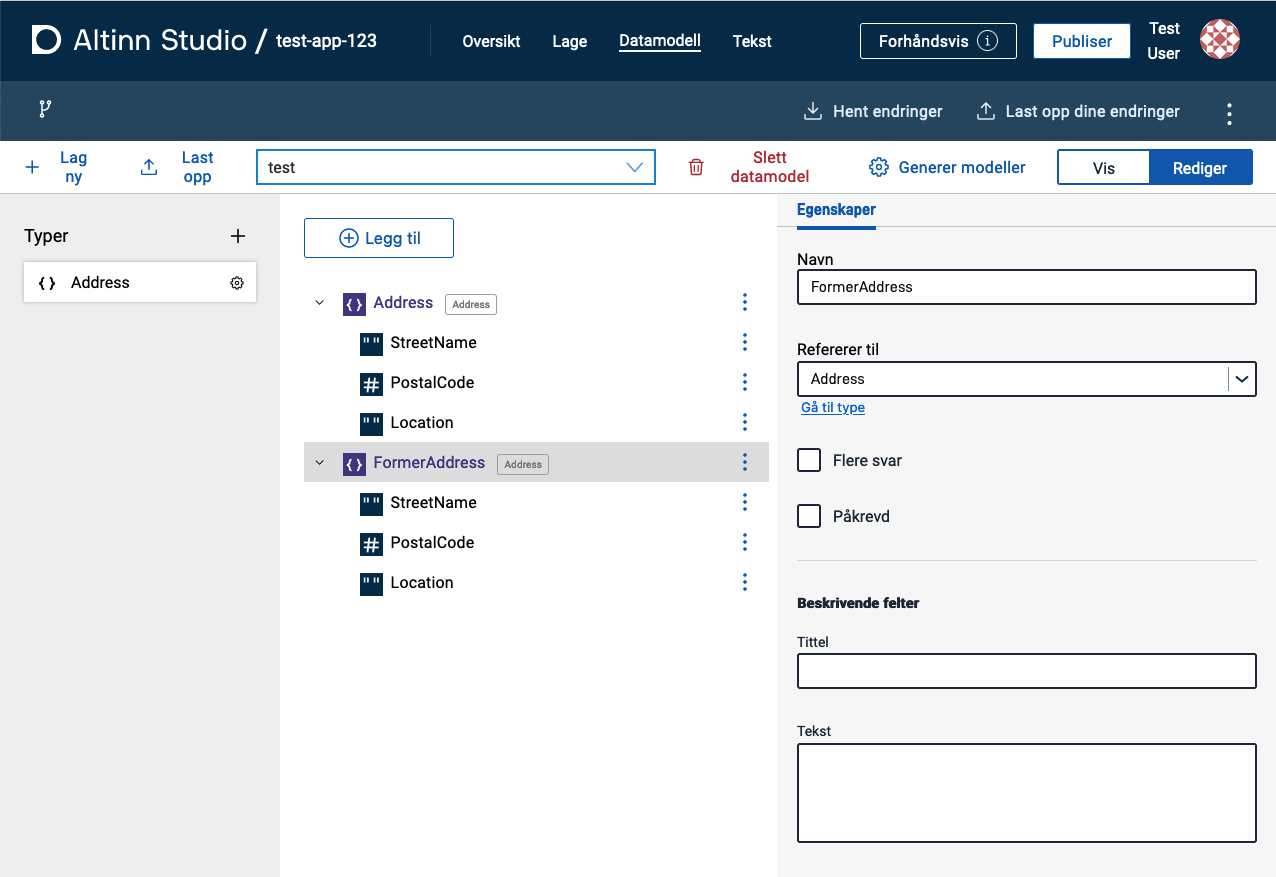
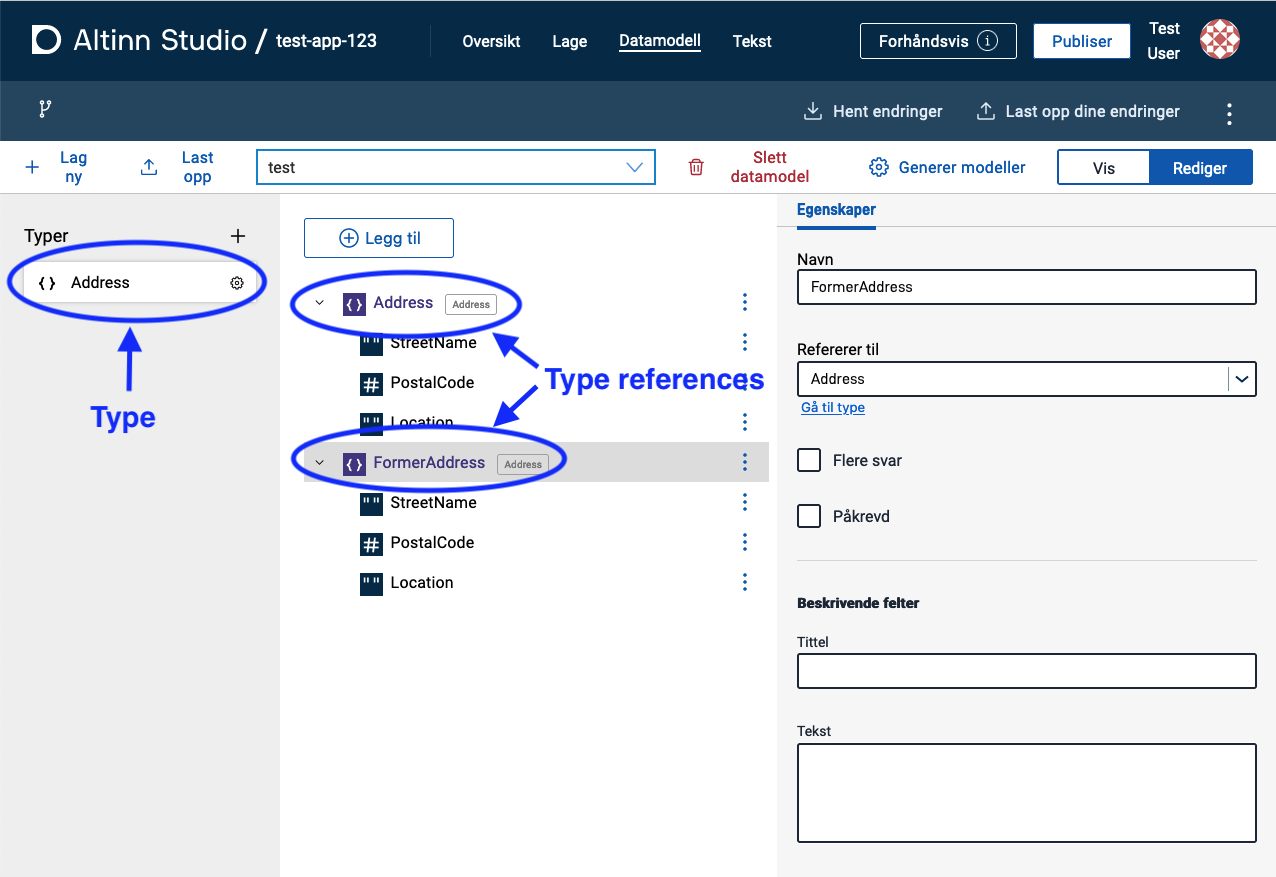
Updated data-models-tool index files (#966)
* Updated and added new screenshots

* Updated data-models-tool _index.en.md with new screenshots and clarifications

* Updated data-models-tool _index.nb with new screenshots and clarifications

---------

diff --git a/content/app/development/data/data-model/data-models-tool/_index.en.md b/content/app/development/data/data-model/data-models-tool/_index.en.md
@@ -50,7 +50,7 @@ A tree view of the data model can be opened to see a visual representation of th
 
 All models uploaded in the tool for an app or the organization's repository (`<org>-datamodels`) are available from the drop-down list in the toolbar.
 XSDs that exist in a repository but do not have any associated model files (JSONSchema) will also appear in the list. See the next
-section for more information.
+section for more information.s
 
 ### Specific to Organization-Level Data Modeling
 
@@ -70,13 +70,15 @@ To create a new data model from scratch:
    2. Enter the name of the data model in the field.
    3. Click _Opprett modell_ (_Create model_).
 
+![Create new data model](create-new-model.png "Create a new data model")
+
 The data model will be created with some example fields that you can work with or delete:
 
   - `property1` (text, required)
   - `property2` (text, required)
   - `property3` (text)
 
-![Create new data model](create-edit-model.gif "Create a new data model")
+![New data model](new-data-model.png "New data model")
 
 ## Editing a Data Model
 
@@ -87,32 +89,36 @@ Functionality for editing the data model with the Altinn Studio Data Model tool 
 Select a model from the dropdown list on the toolbar and click _Rediger_ (_edit_)
  in the top right corner of the model tool. A panel for editing the model will appear on the right side.
 
+![Edit data model](edit-model.png "Edit data model")
+
 {{% notice info %}}
 The JSONschema model is automatically saved as you work on it. To generate other model files such as XSD (and C# file for apps), you need to
-click the _Generate Models_ button in the top right corner (see [Generating Model Files](#generating-model-files-xsd-and-c)).
+click _Generer modeller_ (_Generate Models_) on the toolbar (see [Generating Model Files](#generating-model-files-xsd-and-c)).
 {{% /notice %}}
 
-### Adding a New Field
+### Add New Field
 
-To add a field at the top-level (root node), click "Add" (button above existing fields).
+To add a field at the top-level (root node), click "Legg til" (**1** in below image).
 
 You can add sub-fields to fields of the Object type via the context menu of the field (three dots to the right of the field name) or by clicking the field and select the tab _Felter_ (_Fields_) in the right-side panel.
 
 ### Adding a New Type
 
-Click on the **+** sign in the "Types" panel on the left side.
+Click on the **+** sign in the "Typer" panel on the left side (**2** in below image).
 
 ### Converting Field to Type
 
-A field can be converted to a type by clicking the three dots to the right of the field and selecting "Convert to Type".
+A field can be converted to a type by clicking the three dots to the right of the field and selecting "Konverter til type" (**3** in below image).
+
+![Add field and type](add-field-type-convert.png "Add field and type and convert field to type")
 
 ### Editing a Type
 
-1. Select the desired type from the panel on the left side by clicking on it. A tree view for the type will then appear in the center.
+1. Select the type from the panel on the left side. A tree view for the type will appear in the center.
 2. Properties for the type can be edited in the right-side panel.
-3. Add new fields by clicking the "Legg til" (Add) button at the top.
-4. Selecting individual fields to edit their properties in the right-side panel.
-5. Exit the type editing mode for types by clicking on the **x** at the top of the model panel, next to `Du redigerer nå på <type>`.
+3. Add new fields by clicking the _Legg til_ (add) button at the top.
+4. Select individual fields to edit their properties in the right-side panel.
+5. Exit the type editing mode by clicking the **x** at the top of the model panel (next to `Du redigerer nå på <type>`).
 
 ### Deleting a Type
 
@@ -121,7 +127,7 @@ A field can be converted to a type by clicking the three dots to the right of th
 
 Note that it is not possible to delete types that are in use.
 
-### Adding a Type Reference
+### Type References
 
 A type reference is a field that follows the structure of a custom type.
  For instance, if you have the type 'Address' with fields 'StreetName', 'PostalCode', and 'Location', adding a reference to that type will automatically add these fields.
@@ -129,10 +135,21 @@ A type reference is a field that follows the structure of a custom type.
 
  ![Type reference](type-references.png "Type references")
 
- To add a type reference at the top level, click _Legg til_ (add) at the top of the tree view and choose _Legg til referanse_ (add reference).
- To add a type reference as a sub field, click the three dots next to a field and select _Legg til referanse_.
+### Adding a Type Reference
 
- In the right-hand panel, select the type you wish to reference from the drop-down list "Refererer til" (refers to).
+ 1. Click _Legg til_ (add) at the top of the tree view and choose _Legg til referanse_ (add reference).
+ ![Add top-level reference](add-reference-top-level.png "Add top-level reference")
+ 2. In the right-hand panel, select the type you wish to reference from the drop-down list "Refererer til" (refers to).
+ ![Select type](select-reference.png "Select type")
+
+You can also add a type reference as a sub field: Click the three dots next to a field and select _Legg til referanse_.
+
+{{% notice info %}}
+**NOTE**  
+To add a reference as a sub field, the parent field must be of type _Object_.
+{{% /notice %}}
+
+ ![Add reference as sub field](add-reference-node.png "Add reference as sub field")
 
 ### Deleting a Field
 

diff --git a/content/app/development/data/data-model/data-models-tool/_index.nb.md b/content/app/development/data/data-model/data-models-tool/_index.nb.md
@@ -71,13 +71,15 @@ For å opprette en ny datamodell fra bunnen av:
 2. Skriv inn navnet på datamodellen i feltet.
 3. Klikk på _Opprett modell_.
 
+![Lag ny datamodell](create-new-model.png "Lag ny datamodell")
+
 Datamodellen opprettes med noen eksempel-felter som man kan jobbe videre med eller slette:
 
 - `property1` (tekst, påkrevd)
 - `property2` (tekst, påkrevd)
 - `property3` (tekst)
 
-![Lag ny modell](create-edit-model.gif "Lag ny modell")
+![Ny modell](new-data-model.png "Ny modell")
 
 ## Redigere datamodell
 
@@ -89,6 +91,8 @@ Velg modell i nedtrekkslisten på verktøylinjen og klikk _Rediger_
 øverst til høyre i modellverktøyet. Et panel for å redigere modellen vises på høyre side av
 verktøyet.
 
+![Rediger datamodell](edit-model.png "Rediger datamodell")
+
 {{% notice info %}}
 JSONschema-modellen lagres automatisk mens man jobber med den. For å generere andre modell-filer som XSD (og C#-fil for apper) må man
 trykke på knappen _Generer modeller_ øverst til høyre (se [Generere Modellfiler](#generere-modellfiler-xsd-og-c)).
@@ -96,34 +100,36 @@ trykke på knappen _Generer modeller_ øverst til høyre (se [Generere Modellfil
 
 ### Legge til nytt felt
 
-For å legge til felt på øverste nivå (rot-node), klikk "Legg til" (knapp over eksisterende felt).
+For å legge til felt på øverste nivå (rot-node), klikk "Legg til" (**1** i bildet under).
 
 Du kan legge til underfelt på felter av type Objekt via kontekstmenyen til feltet (tre prikker til høyre for feltnavnet) eller ved å klike på feltet og velge fanen _Felter_ i panelet til høyre.
 
 ### Legge til en ny type
 
-Klikk på **+**-tegnet i "Typer"-panelet på venstre side.
+Klikk på **+**-tegnet i "Typer"-panelet på venstre side (**2** i bildet under).
 
 ### Konvertere felt til type
 
-Et felt kan konverteres til en type ved å klikke de tre prikkene til høyre for feltet og velge "Konverter til type".
+Et felt kan konverteres til en type ved å klikke de tre prikkene til høyre for feltet og velge "Konverter til type" (**3** i bildet under).
+
+![Legg til felt og type](add-field-type-convert.png "Legg til felt og type og konverter felt til type")
 
 ### Redigere en type
 
-1. Velg ønsket type fra panelet på venstre side ved å klikke på den. En tre-visning for typen vises da i midten.
-2. Egenskaper for typen kan redigeres i høyre-panelet
-3. Ved å trykke på "Legg til" knappen øverst kan man legge til felter på typen
+1. Klikk på typen du ønsker å redigere. En tre-visning for typen vises i midten.
+2. Egenskaper for typen kan redigeres i panelet til høyre.
+3. Klikk "Legg til" øverst for å legge til felter på typen.
 4. Ved å velge felter fra typen kan man redigere egenskaper for disse i høyre-panelet.
-5. Man lukker redigeringsmodus for typer ved å trykke på **x** øverst i modell-panelet, ved siden av `Du redigerer nå på <type>`.
+5. Lukk redigering av typer ved å trykke på **x** øverst i modell-panelet (ved siden av `Du redigerer nå på <type>`).
 
 ### Slette en type
 
-1. Velg ønsket type fra panelet på venstre side
+1. Velg ønsket type fra panelet på venstre side.
 2. Klikk kontekst-menyen (tre prikker) til det øverste feltet (rot-noden) på typen og velg "Slett".
 
 Merk at det ikke er mulig å slette typer som er i bruk.
 
-### Legge til en typereferanse
+### Typereferanser
 
 En typereferanse er et felt som følger strukturen til en egendefinert type.
 For eksempel, hvis du har typen 'Adresse' med feltene 'Gateadresse', 'Postnummer' og 'Sted', vil en referanse til denne typen automatisk legge til disse feltene.
@@ -131,10 +137,21 @@ Typen vises ved siden av feltnavnet i trevisningen.
 
 ![Typereferanse](type-references.png "Typereferanser")
 
-For å legge til en referanse på toppnivå, klikk _Legg til_ øverst i trevisningen og velg _Legg til referanse_.
-For å legge til en referanse som en underordnet felt, klikk de tre prikkene ved siden av et feltet og velg _Legg til referanse_.
+### Legge til en typereferanse
 
-I høyre panel, velg typen du ønsker å referere til fra nedtrekkslisten under "Refererer til".
+1. Klikk _Legg til_ øverst i trevisningen og velg _Legg til referanse_.
+![Legg til referanse på toppnivå](add-reference-top-level.png "Legg til referanse på toppnivå")
+1. Klikk på referansen du opprettet og velg typen du ønsker å referere til fra nedtrekkslisten under "Refererer til" i det høyre panelet.
+![Velg referanse](select-reference.png "Velg typen feltet refererer til")
+
+Du kan også legge til en referanse som en underordnet felt: Klikk de tre prikkene ved siden av et feltet og velg _Legg til referanse_.
+
+{{% notice info %}}
+**MERK**  
+For å legge til elementer under et felt (node) må feltet være av typen _Objekt_.
+{{% /notice %}}
+
+![Legg til referanse på objekt](add-reference-node.png "Legg til referanse på objekt")
 
 ### Slette et felt
 
